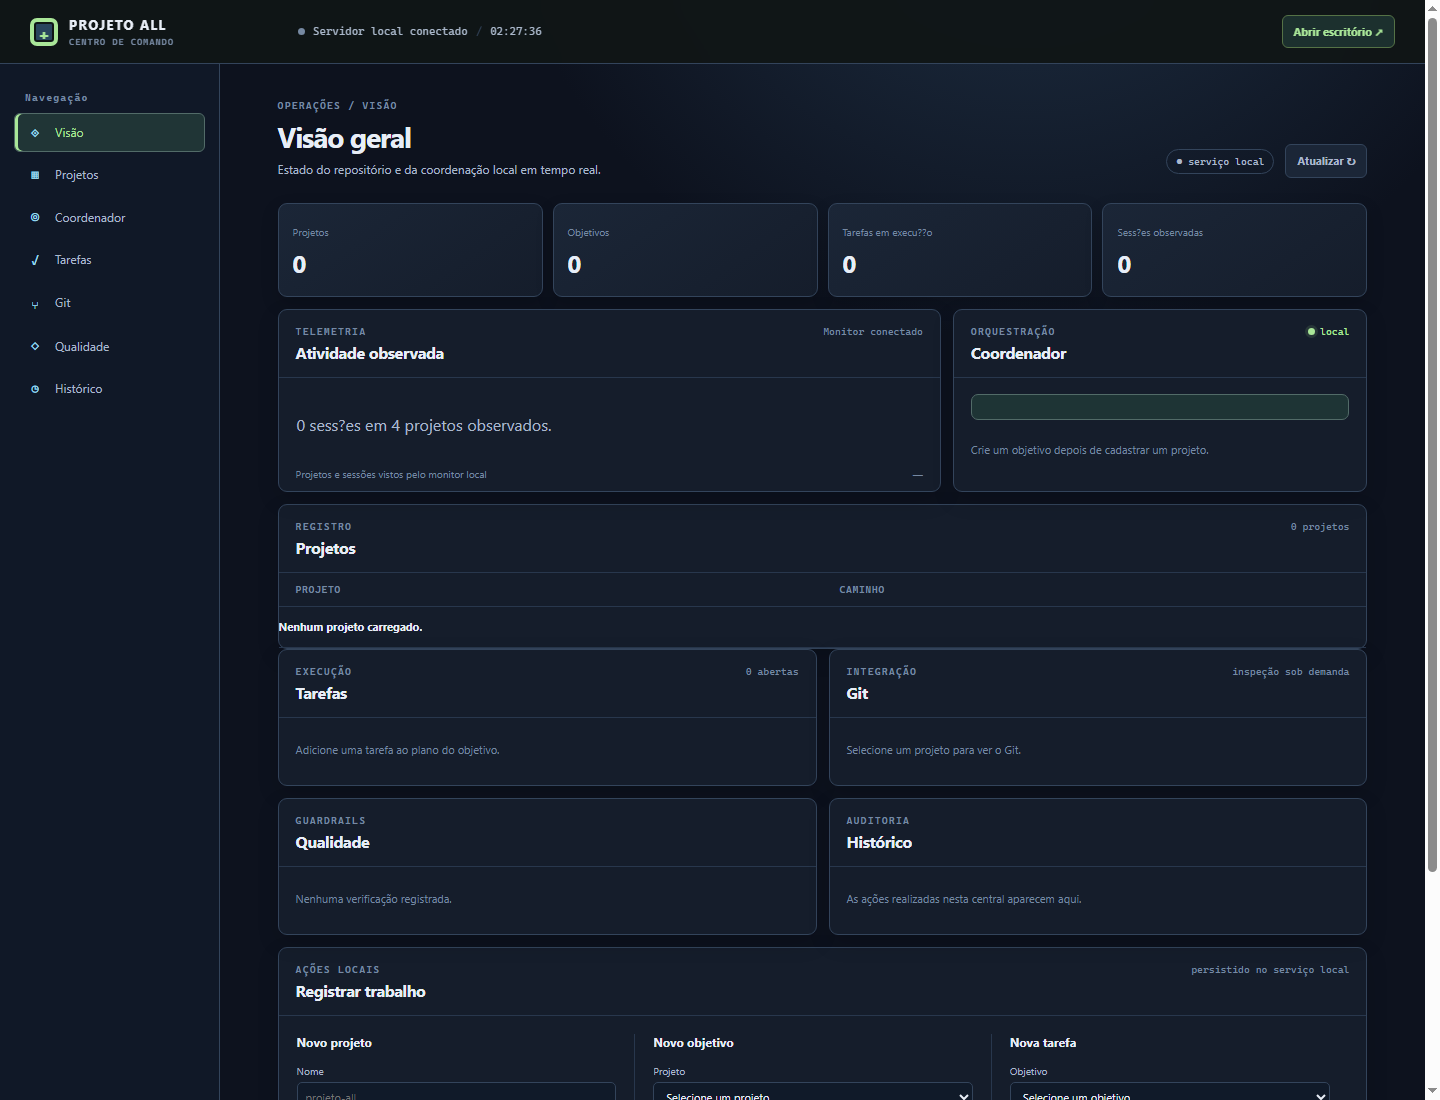
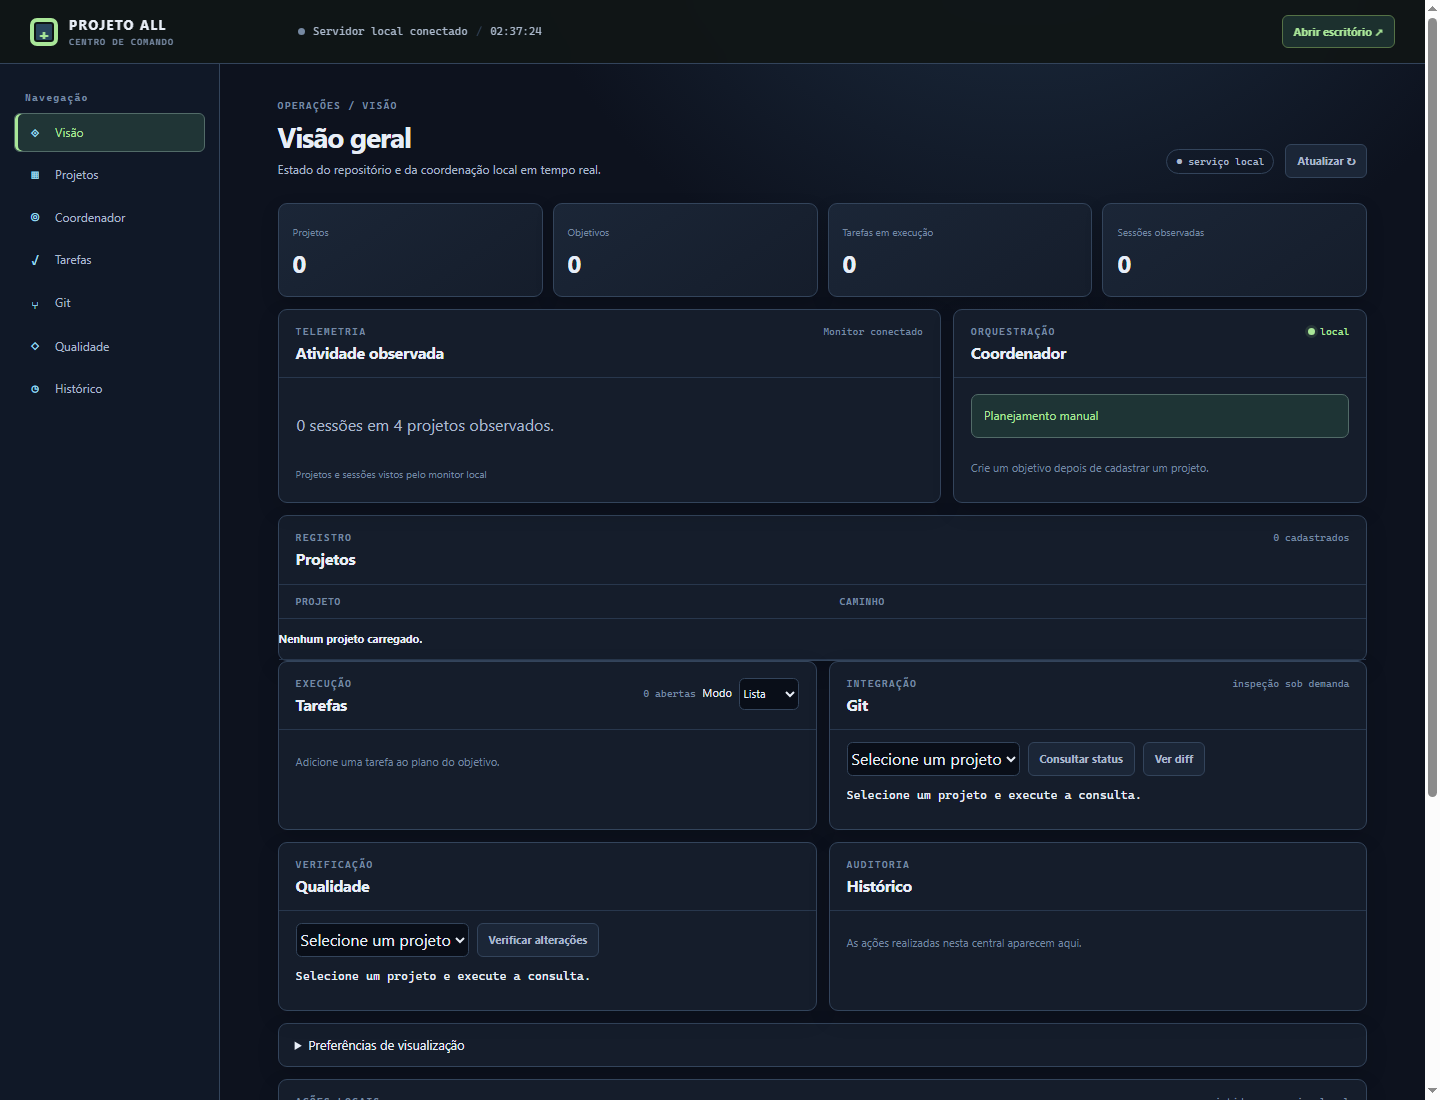
Corrige conexão dos controles e atualiza capturas verificadas

diff --git a/dist/command.js b/dist/command.js
@@ -57,7 +57,19 @@ function activeDependencies() {
 
 function render() {
   const getProject = id => state.projects.find(entry => entry.id === id)?.name;
-  fill('project-list', state.projects, project => row(project.name, project.path), 'Cadastre a pasta de um projeto para começar.');
+  const table = byId('projects-table');
+  if (state.projects.length) {
+    table.replaceChildren(...state.projects.map(project => {
+      const tr = element('tr');
+      tr.append(element('td', project.name), element('td', project.path));
+      return tr;
+    }));
+  }
+  setText('projects-count', state.projects.length + ' cadastrados');
+  setText('tasks-count', state.tasks.filter(task => !['done', 'cancelled'].includes(task.state)).length + ' abertas');
+  setText('coordinator-status', 'Planejamento manual');
+  prepareGit('git-list', [['status', 'Consultar status'], ['diff', 'Ver diff']]);
+  prepareGit('quality-list', [['check', 'Verificar alterações']]);
   fill('coordinator-detail', state.objectives, objective => {
     const tasks = state.tasks.filter(task => task.objectiveId === objective.id);
     return row(objective.title, [getProject(objective.projectId), tasks.filter(task => task.state === 'done').length + '/' + tasks.length + ' concluídas'].join(' · '));
@@ -73,16 +85,24 @@ function render() {
     options(select, state.objectives, objective => objective.title, 'Selecione um objetivo');
   }
   activeDependencies();
-  setText('metric-projects', state.projects.length);
-  setText('metric-objectives', state.objectives.length);
-  setText('metric-tasks', state.tasks.filter(task => task.state === 'running').length);
 }
 
 function renderTasks() {
   const getObjective = id => state.objectives.find(entry => entry.id === id)?.title;
   function taskRow(task) {
-    const dependencies = task.dependencies.map(id => state.tasks.find(entry => entry.id === id)?.title).filter(Boolean);
-    const item = row(task.title, [getObjective(task.objectiveId), dependencies.length ? 'Depende de ' + dependencies.join(', ') : 'Sem dependências'].join(' · '));
+    const item = row(task.title, getObjective(task.objectiveId));
+    item.id = 'task-' + task.id;
+    if (task.dependencies.length) {
+      const description = element('p', 'Depende de ');
+      for (const id of task.dependencies) {
+        const dependency = state.tasks.find(entry => entry.id === id);
+        if (!dependency) continue;
+        const link = element('a', dependency.title);
+        link.href = '#task-' + id;
+        description.append(link, ' ');
+      }
+      item.append(description);
+    }
     const select = element('select');
     select.setAttribute('aria-label', 'Estado de ' + task.title);
     select.dataset.task = task.id;
@@ -129,9 +149,9 @@ function prepareGit(id, actions) {
 function renderMetrics() {
   const { observed, resources } = state;
   if (observed) {
-    setText('activity-meta', ({ connected: 'Monitor conectado', starting: 'Monitor iniciando', unavailable: 'Monitor indispon?vel' })[observed.status] || observed.status);
+    setText('activity-meta', ({ connected: 'Monitor conectado', starting: 'Monitor iniciando', unavailable: 'Monitor indisponível' })[observed.status] || observed.status);
     const stats = [['Projetos', state.projects.length], ['Objetivos', state.objectives.length],
-      ['Tarefas em execu??o', state.tasks.filter(task => task.state === 'running').length], ['Sess?es observadas', observed.sessions]];
+      ['Tarefas em execução', state.tasks.filter(task => task.state === 'running').length], ['Sessões observadas', observed.sessions]];
     const signature = JSON.stringify(stats);
     const overview = byId('overview-stats');
     if (overview.dataset.signature !== signature) {
@@ -142,16 +162,14 @@ function renderMetrics() {
         return card;
       }));
     }
-    setText('activity-chart', observed.sessions + ' sess?es em ' + observed.projects + ' projetos observados.');
+    setText('activity-chart', observed.sessions + ' sessões em ' + observed.projects + ' projetos observados.');
   }
   if (!resources) return;
   const gib = bytes => (bytes / 2 ** 30).toLocaleString('pt-BR', { maximumFractionDigits: 1 }) + ' GiB';
-  setText('metric-memory', gib(resources.total - resources.free) + ' / ' + gib(resources.total));
-  setText('metric-cores', resources.cores);
   const used = Math.round(100 * (1 - resources.free / resources.total));
   setText('resource-percent', used + '% RAM');
   byId('resource-meter').style.width = used + '%';
-  setText('resource-summary', gib(resources.total - resources.free) + ' em uso ? ' + resources.cores + ' n?cleos l?gicos');
+  setText('resource-summary', gib(resources.total - resources.free) + ' em uso · ' + resources.cores + ' núcleos lógicos');
 }
 
 async function request(query = '', init) {

diff --git a/dist/command.html b/dist/command.html
@@ -49,7 +49,7 @@
           <section class="panel panel-wide" id="visao" data-panel="visao" aria-labelledby="overview-title">
             <header class="panel-header"><div><p class="eyebrow">TELEMETRIA</p><h2 id="overview-title">Atividade observada</h2></div><span class="panel-meta" id="activity-meta">Sem dados</span></header>
             <div class="activity-chart" id="activity-chart" aria-label="Resumo da atividade"></div>
-            <div class="panel-foot"><span>Projetos e sessões vistos pelo monitor local</span><span id="activity-updated">—</span></div>
+            <div class="panel-foot"><span>Projetos e sessões vistos pelo monitor local</span></div>
           </section>
           <section class="panel" id="coordenador" data-panel="coordenador" aria-labelledby="coordinator-title">
             <header class="panel-header"><div><p class="eyebrow">ORQUESTRAÇÃO</p><h2 id="coordinator-title">Coordenador</h2></div><span class="live-label"><i></i>local</span></header>
@@ -66,15 +66,15 @@
         <div class="content-grid lower-grid">
           <section class="panel" id="tarefas" data-panel="tarefas" aria-labelledby="tasks-title"><header class="panel-header"><div><p class="eyebrow">EXECUÇÃO</p><h2 id="tasks-title">Tarefas</h2></div><div class="task-toolbar"><span class="panel-meta" id="tasks-count">0 abertas</span><label for="task-view">Modo</label><select id="task-view"><option value="list">Lista</option><option value="board">Kanban</option></select></div></header><div id="tasks-list" class="stack-list"><p class="empty-state">Nenhuma tarefa registrada.</p></div></section>
           <section class="panel" id="git" data-panel="git" aria-labelledby="git-title"><header class="panel-header"><div><p class="eyebrow">INTEGRAÇÃO</p><h2 id="git-title">Git</h2></div><span class="panel-meta">inspeção sob demanda</span></header><div id="git-list" class="stack-list"><p class="empty-state">Selecione um projeto para ver o Git.</p></div></section>
-          <section class="panel" id="qualidade" data-panel="qualidade" aria-labelledby="quality-title"><header class="panel-header"><div><p class="eyebrow">VERIFICA??O</p><h2 id="quality-title">Qualidade</h2></div></header><div id="quality-list" class="stack-list"><p class="empty-state">Nenhuma verificação registrada.</p></div></section>
+          <section class="panel" id="qualidade" data-panel="qualidade" aria-labelledby="quality-title"><header class="panel-header"><div><p class="eyebrow">VERIFICAÇÃO</p><h2 id="quality-title">Qualidade</h2></div></header><div id="quality-list" class="stack-list"><p class="empty-state">Nenhuma verificação registrada.</p></div></section>
           <section class="panel" id="historico" data-panel="historico" aria-labelledby="history-title"><header class="panel-header"><div><p class="eyebrow">AUDITORIA</p><h2 id="history-title">Histórico</h2></div></header><div id="history-list" class="timeline"><p class="empty-state">Nenhum evento registrado.</p></div></section>
         </div>
 
         <details class="panel display-settings">
-          <summary>Prefer?ncias de visualiza??o</summary>
+          <summary>Preferências de visualização</summary>
           <div class="inspection-controls">
-            <label>Tema <select id="theme"><option value="dark">Escuro</option><option value="light">Claro</option><option value="auto">Autom?tico</option></select></label>
-            <label>Densidade <select id="density"><option value="comfortable">Confort?vel</option><option value="compact">Compacta</option></select></label>
+            <label>Tema <select id="theme"><option value="dark">Escuro</option><option value="light">Claro</option><option value="auto">Automático</option></select></label>
+            <label>Densidade <select id="density"><option value="comfortable">Confortável</option><option value="compact">Compacta</option></select></label>
           </div>
         </details>
         <section class="panel forms-panel" id="actions" aria-labelledby="actions-title"><header class="panel-header"><div><p class="eyebrow">AÇÕES LOCAIS</p><h2 id="actions-title">Registrar trabalho</h2></div><span class="panel-meta">persistido no serviço local</span></header><div class="forms-grid">

diff --git a/docs/evidence/command-baseline.md b/docs/evidence/command-baseline.md
@@ -1,18 +1,14 @@
-# Centro de comando: baseline local
+# Centro de comando local no Chrome headless
 
-Capturado em 2026-11-28 contra `http://127.0.0.1:4187/command.html`, servidor
-local isolado com dados vazios. Nenhuma credencial, conversa ou snapshot privado
-foi incluído. Chrome headless 158.0.8127.37 foi usado nos mesmos viewports da
-linha de base estática.
+Capturado em 2026-11-28 com o servidor de teste em loopback, relay desligado e base descartável vazia.
 
-- [Desktop, 1440×1100](command-desktop.png)
-- [Mobile, 390×844](command-mobile.png)
+- [Desktop, 1440 × 1100](command-desktop.png)
+- [Janela estreita, 500 × 950](command-mobile.png)
 
-O painel abriu com estado vazio: 0 projetos, 0 objetivos, 0 tarefas em execução
-e 0 sessões observadas. A interface indicou servidor local conectado.
+O Chrome headless usado neste ambiente recorta imagens solicitadas abaixo de 500 px de largura. A captura de janela estreita da central usa 500 px para mostrar a largura inteira. A linha de base histórica de 390 px pode apresentar recorte. Essa evidência é da aplicação web. O APK Android requer validação em dispositivo.
 
-## Assets
+## Recursos
 
-Os requests abaixo foram medidos sequencialmente pelo mesmo host, separadamente
-da medição do `dist` estático. Todos retornaram HTTP 200; os bytes e timings estão
-em [command-baseline-metrics.json](command-baseline-metrics.json).
+A sondagem sequencial em loopback mediu 130,6 ms para quatro recursos que somam 49.368 bytes, incluindo o HTML do escritório vinculado. Os três arquivos próprios da tela somam 35.918 bytes. A linha de base do escritório mediu outro conjunto de recursos em outro servidor. Os valores não são uma comparação de tempo para interação, FPS ou consumo de CPU e RAM.
+
+[Dados por requisição](command-baseline-metrics.json) · [Linha de base do escritório](baseline.md)
